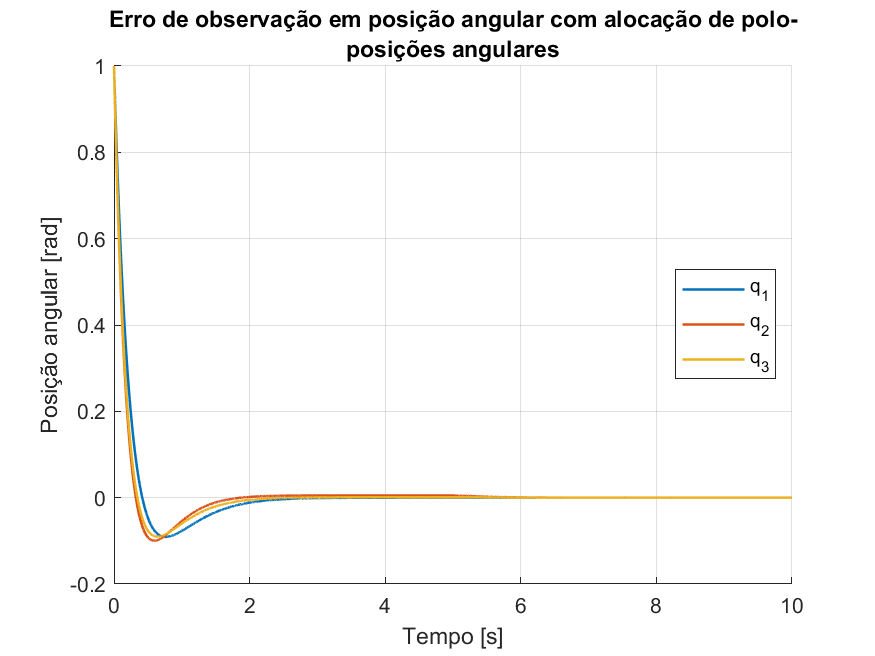
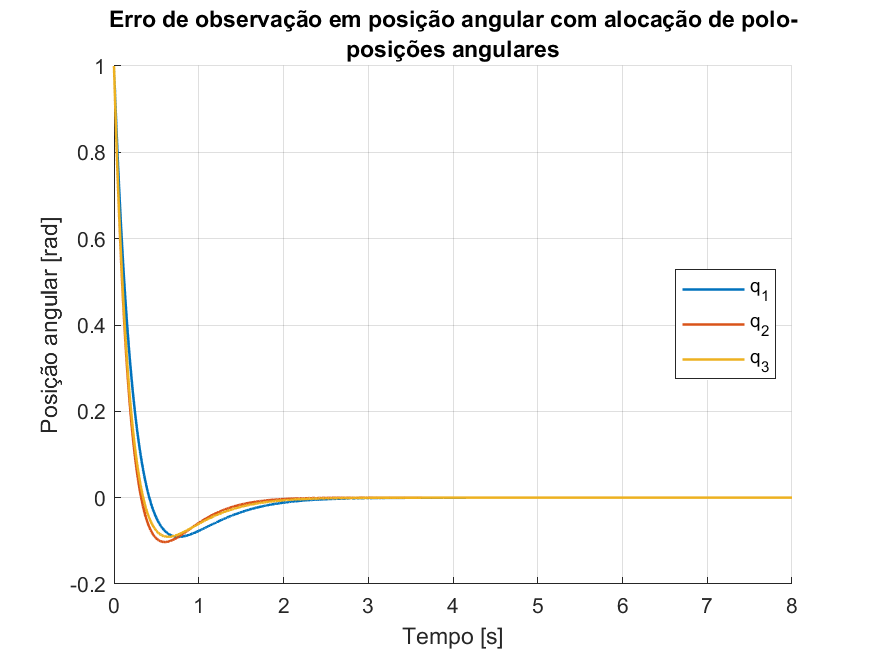
observer

diff --git a/observador_polos_sim.m b/observador_polos_sim.m
@@ -1,0 +1,189 @@
+clc
+clear all
+close all
+
+addpath('Matrizes\')
+addpath("Imagens\Controle Moderno\")
+
+
+
+passo=0.01;
+t=0:passo:10;
+u=ones(size(t));
+
+A = importdata('matrix_A1lin.txt');
+B = importdata('matrix_B1lin.txt');
+C = importdata('matrix_C1.txt');
+D = importdata('matrix_D1.txt');
+
+Co = ctrb(A,B);
+rank(Co);
+Ob = obsv(A,C);
+rank(Ob);
+
+polos = eig(A);
+% 
+% p1=-0.3+0.3i;
+% p2=-5.4+.3i;
+% p = [p1 conj(p1) p2 conj(p2) -0.8 -0.4];
+p = [-0.8+0.6i -0.8-0.6i -2.6+0.3i -2.6-0.3i -1. -0.8];
+K = place(A,B,p);
+B1 = -B*0.2;
+
+sys_aloc = ss(A-B*K,B1,C,D);
+[y,t,x]=step(sys_aloc);
+
+figure(1)
+pzmap(sys_aloc)
+% grid on
+% baseFileName = sprintf('Image_%s.png', "aloc_pol");
+% fullFileName = fullfile("Imagens\Controle Moderno", baseFileName);
+% saveas(1, fullFileName);
+% 
+% 
+% 
+% figure(3)
+% hold on
+% plot(t,y(:,4,2),LineWidth=1.20)
+% plot(t,y(:,5,2),LineWidth=1.20)
+% plot(t,y(:,6,2),LineWidth=1.20)
+% title("Velocidade angular: degrau aplicado")
+% xlabel("Tempo [s]")
+% ylabel("Velocidade angular [rad/s]")
+% legend('w_1','w_2','w_3','Location','east')
+% hold off
+% grid on
+% % baseFileName = sprintf('Image_%s.png', "aloc_vel");
+% % fullFileName = fullfile("Imagens\Controle Moderno", baseFileName);
+% % saveas(3, fullFileName);
+% 
+% 
+% figure(4)
+% hold on
+% plot(t,y(:,1,2),LineWidth=1.20)
+% plot(t,y(:,2,2),LineWidth=1.20)
+% plot(t,y(:,3,2),LineWidth=1.20)
+% title("Posição: degrau aplicado")
+% xlabel("Tempo [s]")
+% ylabel("Posição angular [rad]")
+% legend('q_1','q_2','q_3','Location','southeast')
+% hold off
+% grid on
+% % baseFileName = sprintf('Image_%s.png', "aloc_pos");
+% % fullFileName = fullfile("Imagens\Controle Moderno", baseFileName);
+% % saveas(4, fullFileName);
+% 
+% 
+
+
+% 
+% figure(3)
+% hold on
+% plot(t,y(:,4,1),LineWidth=1.20)
+% plot(t,y(:,5,2),LineWidth=1.20)
+% plot(t,y(:,6,3),LineWidth=1.20)
+% title("Velocidade angular: degrau aplicado")
+% xlabel("Tempo [s]")
+% ylabel("Velocidade angular [rad/s]")
+% legend('w_1','w_2','w_3','Location','east')
+% hold off
+% grid on
+% baseFileName = sprintf('Image_%s.png', "aloc_vel");
+% fullFileName = fullfile("Imagens\Controle Moderno", baseFileName);
+% saveas(3, fullFileName);
+% 
+% 
+% figure(4)
+% hold on
+% plot(t,y(:,1,1),LineWidth=1.20)
+% plot(t,y(:,2,2),LineWidth=1.20)
+% plot(t,y(:,3,3),LineWidth=1.20)
+% title("Posição: degrau aplicado")
+% xlabel("Tempo [s]")
+% ylabel("Posição angular [rad]")
+% legend('q_1','q_2','q_3','Location','southeast')
+% hold off
+% grid on
+% baseFileName = sprintf('Image_%s.png', "aloc_pos");
+% fullFileName = fullfile("Imagens\Controle Moderno", baseFileName);
+% saveas(4, fullFileName);
+
+q=[1 0 0 0 .15 .15 .15];
+
+
+passo=0.001;
+t=0:passo:15;
+u=zeros(length(t),3);
+% u(1:5000,:)=ones(5000,3);
+% u(:,1)=zeros(length(t),1);
+% u(:,3)=zeros(length(t),1);
+[y]=lsim(sys_aloc,u,t,q(2:end));
+
+
+
+figure(6)
+hold on
+plot(t,y(:,4),LineWidth=1.20)
+plot(t,y(:,5),LineWidth=1.20)
+plot(t,y(:,6),LineWidth=1.20)
+title("Velocidade angular: velocidade inicial não nula")
+xlabel("Tempo [s]")
+ylabel("Velocidade angular [rad/s]")
+legend('\omega_1','\omega_2','\omega_3','Location','northeast')
+hold off
+grid on
+baseFileName = sprintf('Image_%s.png', "aloc_ut_vel");
+fullFileName = fullfile("Imagens\Controle Moderno", baseFileName);
+saveas(6, fullFileName);
+
+figure(7)
+hold on
+plot(t,y(:,1),LineWidth=1.20)
+plot(t,y(:,2),LineWidth=1.20)
+plot(t,y(:,3),LineWidth=1.20)
+title("Posição: pulso aplicado")
+xlabel("Tempo [s]")
+ylabel("Posição angular [rad]")
+legend('q_1','q_2','q_3','Location','northeast')
+hold off
+grid on
+% baseFileName = sprintf('Image_%s.png', "aloc_ut_pos");
+% fullFileName = fullfile("Imagens\Controle Moderno", baseFileName);
+% saveas(7, fullFileName);
+
+
+% 
+% [psi,theta,phi] = quat2eulang(q(1),y(:,1),y(:,2),y(:,3),'ZXZ');
+% 
+% figure(8)
+% hold on
+% plot(t,psi,LineWidth=1.20)
+% plot(t,theta,LineWidth=1.20)
+% plot(t,phi,LineWidth=1.20)
+% title("Posição: degrau aplicado")
+% xlabel("Tempo [s]")
+% ylabel("Posição angular [rad]")
+% legend('psi','theta','phi','Location','southeast')
+% hold off
+% grid on
+
+Torq = -K*y(:,:)';
+
+Torq1= Torq(1,:);
+Torq2=Torq(2,:);
+Torq3=Torq(3,:);
+
+figure(5)
+plot(t,Torq1)
+hold on
+plot(t,Torq2)
+plot(t,Torq3)
+title(["Torque requerido para estabilização-","alocação de polos"])
+xlabel("Tempo [s]")
+ylabel('Torque [N.m]')
+legend('T_{rr1}','T_{rr2}','T_{rr3}','Location','east')
+hold off
+grid on
+baseFileName = sprintf('Image_%s.png', "aloc_pol_torque");
+fullFileName = fullfile("Imagens\Controle Moderno", baseFileName);
+saveas(6, fullFileName);

diff --git a/observador_polos.m b/observador_polos.m
@@ -31,11 +31,11 @@ sys_obs_aloc = ss(O,B1,C,0);
 
 
 dt = 0.001;
-tf = 10;
+tf = 8;
 t = 0:dt:tf;
 
 u=zeros(length(t),3)*0;
-u(1:5000,2)=ones(5000,1)*0.025;
+u(1:5000,2)=ones(5000,1)*0.0;
 
 e0 = [1 1 1 1 1 1];
 
